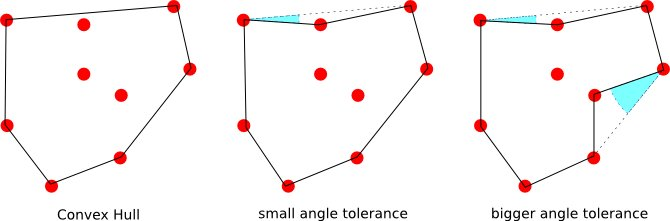
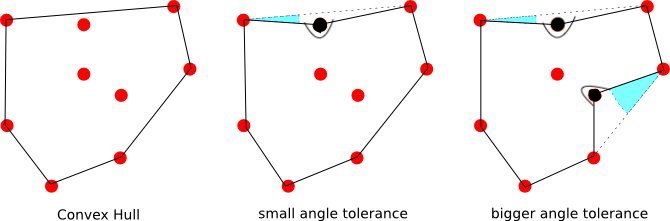
Change image

diff --git a/README.md b/README.md
@@ -19,13 +19,13 @@ https://vusalis.github.io/Convex-Hull-Algorithms/
 
 # What is Convex Hull?
 
-In the given a set of points, the convex hull of the set is the smallest convex polygon that contains all the points of it. This mathematical term has so many [applications](https://en.wikipedia.org/wiki/Convex_hull#Applications). As you see in the below picture, the first polygon is convex hull because none of the angles is greater than 180 degrees.
+In the given a set of points, the convex hull of the set is the smallest convex polygon that contains all the points of it. This mathematical term has so many [applications](https://en.wikipedia.org/wiki/Convex_hull#Applications). As you see in the below picture, the first polygon is convex hull because none of the angles is greater than 180 degrees(Those points are marked as black).
 
 ![Convex example](demos/convex.jpg)
 
 # What is Gift Wrapping Algorithm?
 
-To find a convex hull, there are a lot of different algorithms(Gift Wrapping, Graham Scan, etc.). Today we will talk about the Gift Wrapping approach. This algorithm is the simplest way to find the convex hull, and the complexity of the algorithm is n\*h. n represents the number of points in our set, h represents the number of convex points(which we create a line to make convex hull). If you look at the above picture carefully, you will see that left most, rightmost, topmost, and bottom-most points are always convex points. For finding the start point, we can choose one of them, but as a convention, we will choose left most point. After choosing the first point, we compare all other points and trying to find which point is located on the leftmost side from the chosen point. Furthermore, the next leftmost point will be our current point, and we will compare all other points with that point. We recursively repeat this process till finding our starting point. Logical sequence as following:
+To find a convex hull, there are a lot of different algorithms(Gift Wrapping, Graham Scan, etc.). Today we will talk about the Gift Wrapping approach. This algorithm is the simplest way to find the convex hull, and the complexity of the algorithm is n\*h(In our example, complexity is 54). n represents the number of points in our set, h represents the number of convex points(which we create a line to make convex hull). If you look at the above picture carefully, you will see that left most, rightmost, topmost, and bottom-most points are always convex points. For finding the start point, we can choose one of them, but as a convention, we will choose left most point. After choosing the first point, we compare all other points and trying to find which point is located on the leftmost side from the chosen point. Furthermore, the next leftmost point will be our current point, and we will compare all other points with that point. We recursively repeat this process till finding our starting point. Logical sequence as following:
 
 1. Initialize p as leftmost point.
 1. Make it current point.
